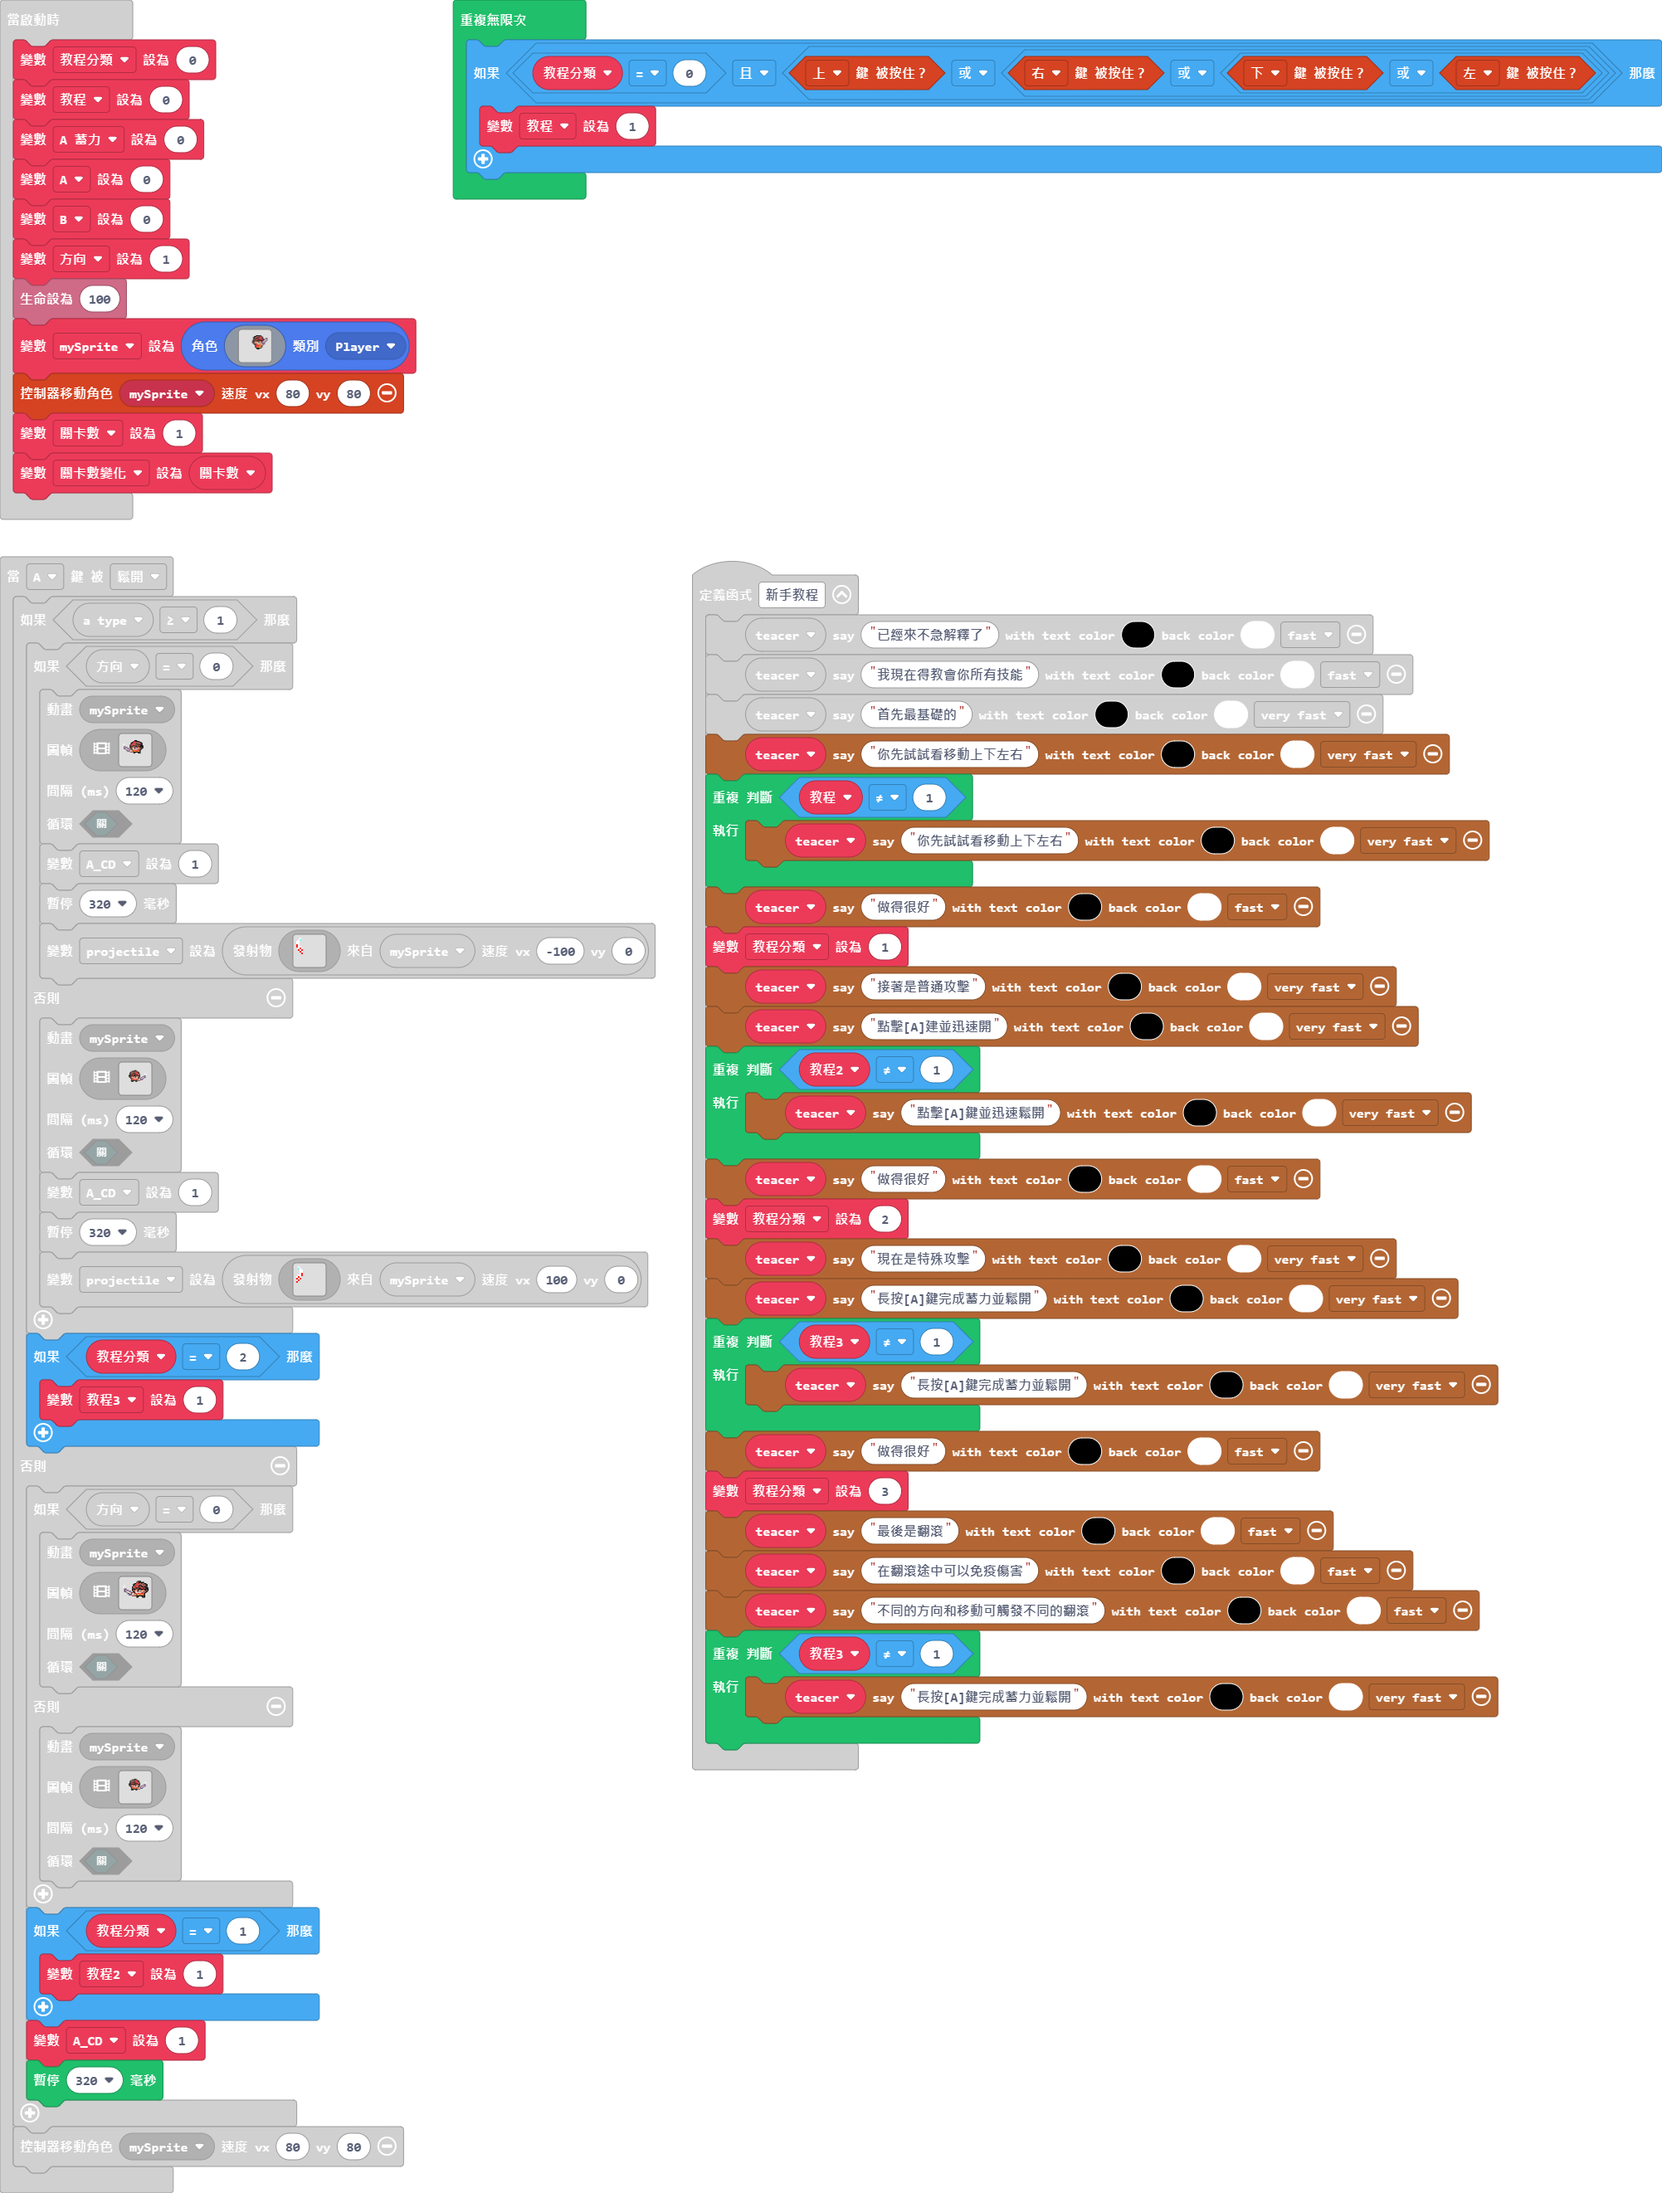
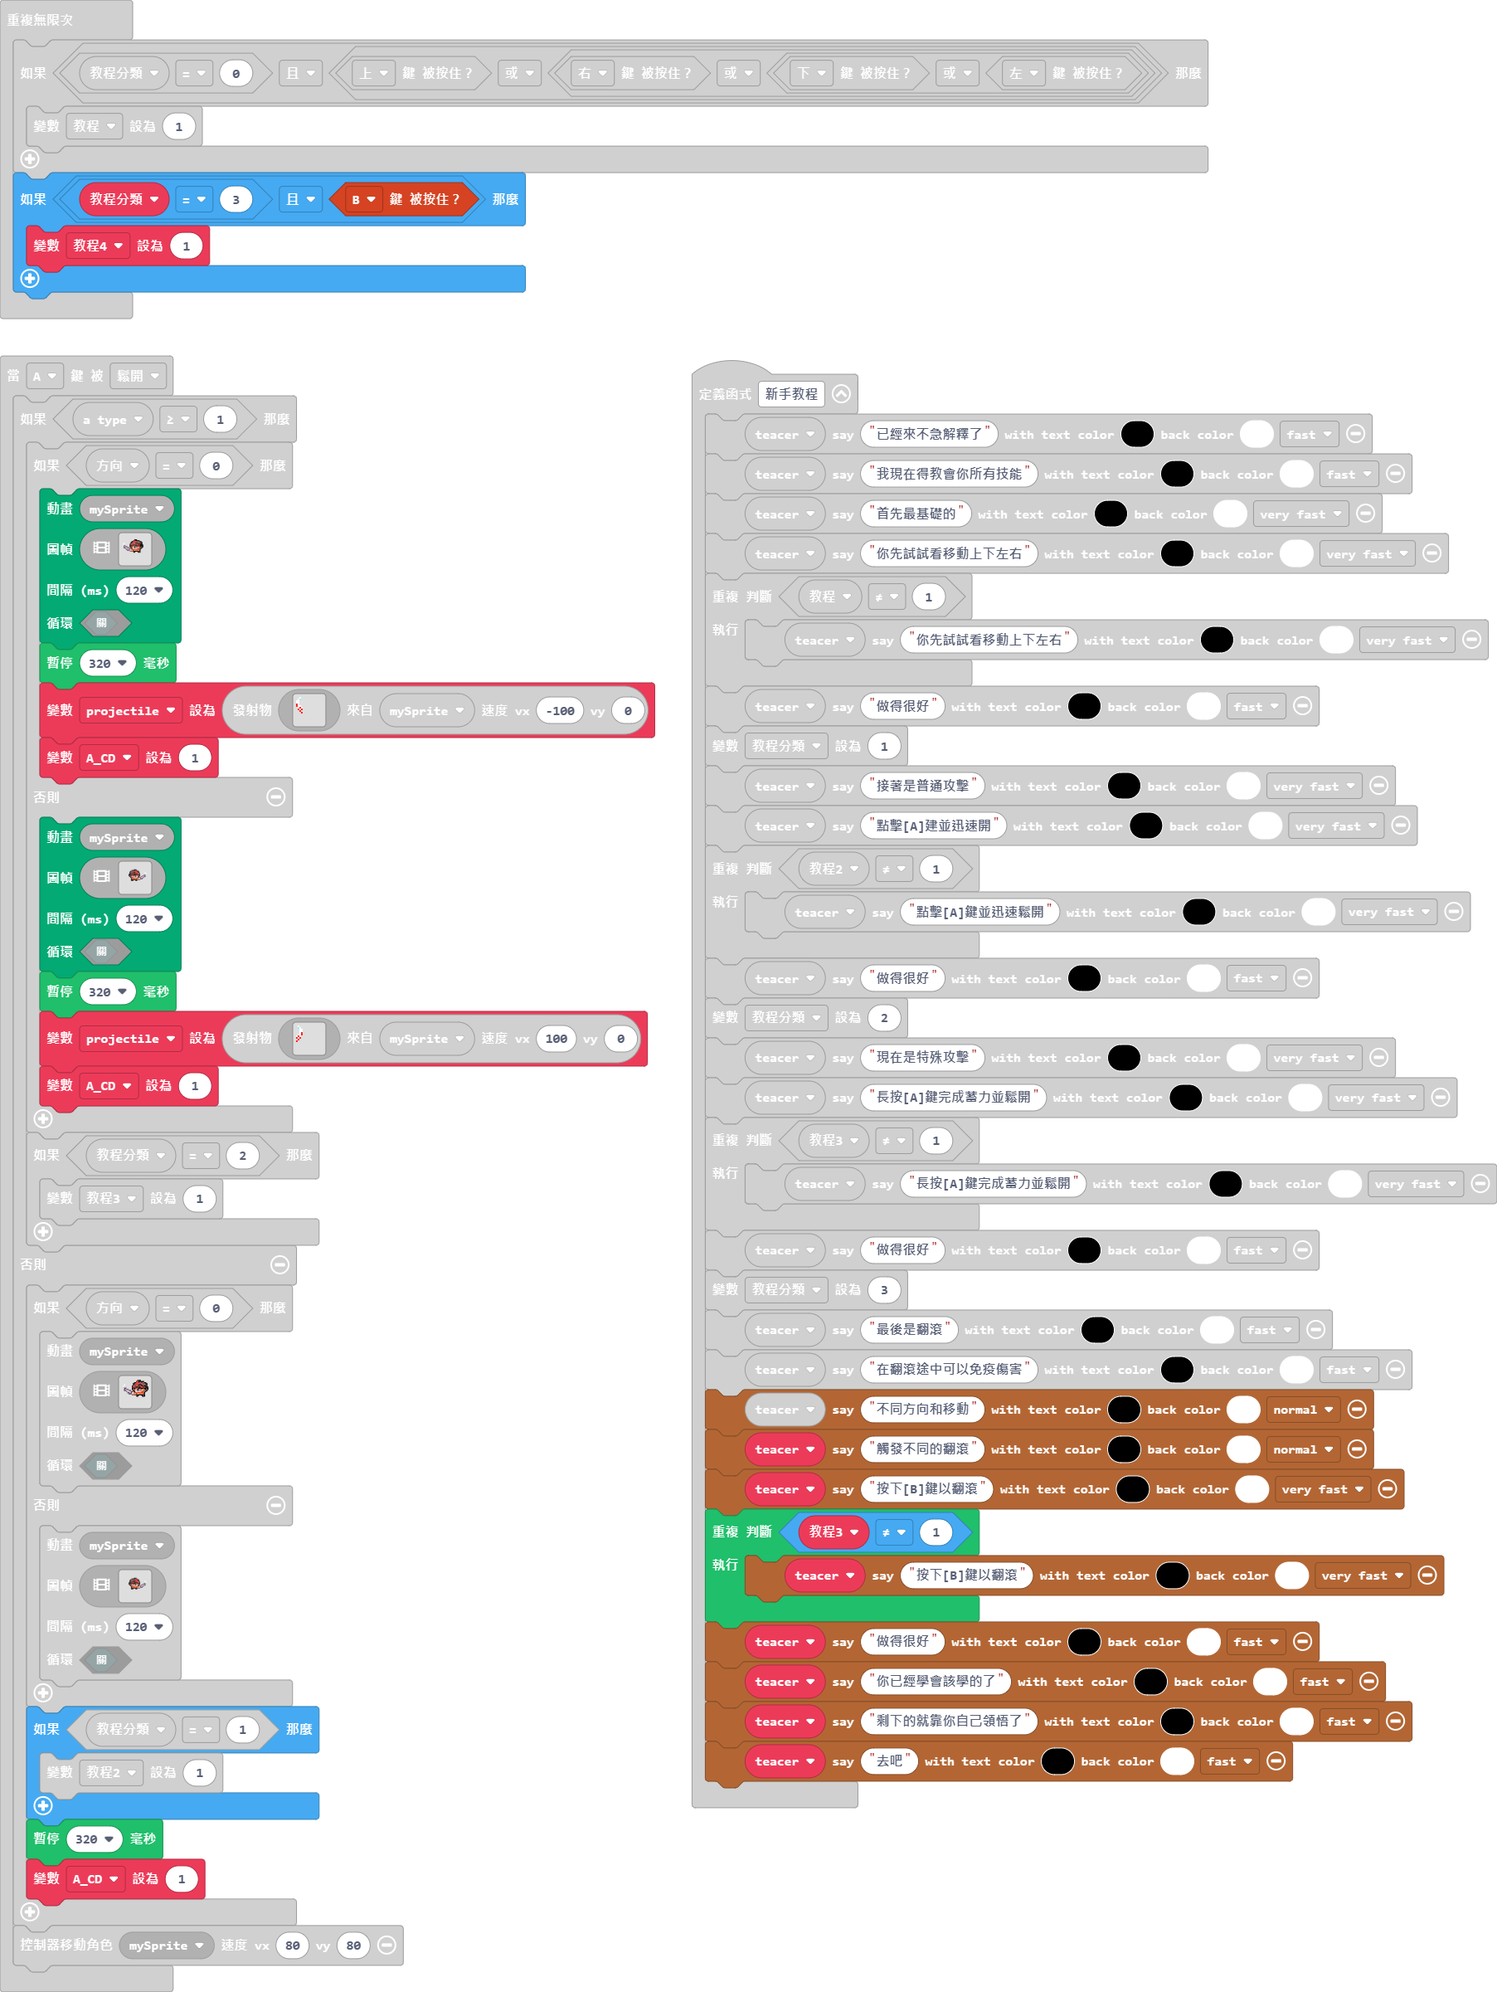
更新 main.blocks, main.ts

diff --git a/main.ts b/main.ts
@@ -927,10 +927,16 @@ function 新手教程 () {
     教程分類 = 3
     story.spriteSayText(teacer, "最後是翻滾", 15, 1, story.TextSpeed.Fast)
     story.spriteSayText(teacer, "在翻滾途中可以免疫傷害", 15, 1, story.TextSpeed.Fast)
-    story.spriteSayText(teacer, "不同的方向和移動可觸發不同的翻滾", 15, 1, story.TextSpeed.Fast)
+    story.spriteSayText(teacer, "不同方向和移動", 15, 1, story.TextSpeed.Normal)
+    story.spriteSayText(teacer, "觸發不同的翻滾", 15, 1, story.TextSpeed.Normal)
+    story.spriteSayText(teacer, "按下[B]鍵以翻滾", 15, 1, story.TextSpeed.VeryFast)
     while (教程3 != 1) {
-        story.spriteSayText(teacer, "長按[A]鍵完成蓄力並鬆開", 15, 1, story.TextSpeed.VeryFast)
+        story.spriteSayText(teacer, "按下[B]鍵以翻滾", 15, 1, story.TextSpeed.VeryFast)
     }
+    story.spriteSayText(teacer, "做得很好", 15, 1, story.TextSpeed.Fast)
+    story.spriteSayText(teacer, "你已經學會該學的了", 15, 1, story.TextSpeed.Fast)
+    story.spriteSayText(teacer, "剩下的就靠你自己領悟了", 15, 1, story.TextSpeed.Fast)
+    story.spriteSayText(teacer, "去吧", 15, 1, story.TextSpeed.Fast)
 }
 controller.B.onEvent(ControllerButtonEvent.Pressed, function () {
     if (B_CD == 0) {
@@ -1115,7 +1121,6 @@ controller.A.onEvent(ControllerButtonEvent.Released, function () {
             120,
             false
             )
-            A_CD = 1
             pause(320)
             projectile = sprites.createProjectileFromSprite(img`
                 . . 1 . . . . . . . . . . . . . 
@@ -1135,6 +1140,7 @@ controller.A.onEvent(ControllerButtonEvent.Released, function () {
                 . . . . . . . . . . . . . . . . 
                 . . . . . . . . . . . . . . . . 
                 `, mySprite, -100, 0)
+            A_CD = 1
         } else {
             animation.runImageAnimation(
             mySprite,
@@ -1242,7 +1248,6 @@ controller.A.onEvent(ControllerButtonEvent.Released, function () {
             120,
             false
             )
-            A_CD = 1
             pause(320)
             projectile = sprites.createProjectileFromSprite(img`
                 . 1 . . . . . . . . . . . . . . 
@@ -1262,6 +1267,7 @@ controller.A.onEvent(ControllerButtonEvent.Released, function () {
                 . . . . . . . . . . . . . . . . 
                 . . . . . . . . . . . . . . . . 
                 `, mySprite, 100, 0)
+            A_CD = 1
         }
         if (教程分類 == 2) {
             教程3 = 1
@@ -1485,8 +1491,8 @@ controller.A.onEvent(ControllerButtonEvent.Released, function () {
         if (教程分類 == 1) {
             教程2 = 1
         }
-        A_CD = 1
         pause(320)
+        A_CD = 1
     }
     controller.moveSprite(mySprite, 80, 80)
 })
@@ -2626,6 +2632,7 @@ function L後翻 () {
     mySprite.x += 1
     pause(25)
 }
+let 教程4 = 0
 let myEnemy: Sprite = null
 let projectile: Sprite = null
 let B_CD = 0
@@ -2686,6 +2693,9 @@ forever(function () {
 forever(function () {
     if (教程分類 == 0 && (controller.up.isPressed() || (controller.right.isPressed() || (controller.down.isPressed() || controller.left.isPressed())))) {
         教程 = 1
+    }
+    if (教程分類 == 3 && controller.B.isPressed()) {
+        教程4 = 1
     }
 })
 forever(function () {
